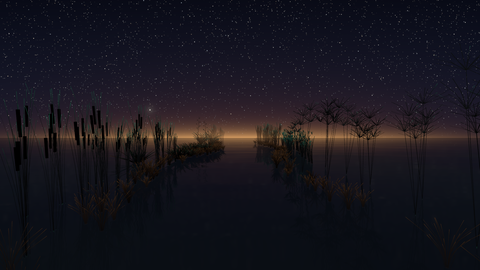
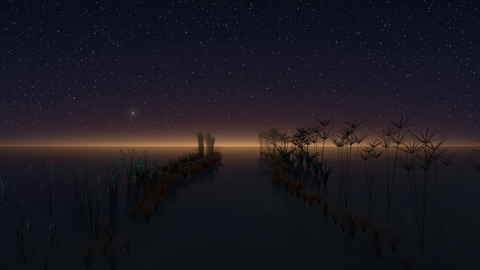
library: floor_reeds' copper stays steady: tufts and agaves take a factor of their own, one slow lift with the swell shared by all clumps (0.35 to 0.35 + `rim_lift`, 1), where the glint made whole clumps pulse by up to four times once per two beats; jade tips of reeds, cattails, sedge and papyrus ke
generated with Claude Code

diff --git a/library/README.md b/library/README.md
@@ -844,8 +844,9 @@ Low copper tufts stand in front of them all, between the plants and the lane.
 
 Each clump has its own size. Reeds, cattails, sedge and papyrus sway across the lane in a wave
 that runs along the line towards the camera, stiffer kinds less, and agaves stand still. The bass
-widens the sway. The stage's swell lights the tips: faint in a loud section, a jade glint in a
-breakdown, each clump catching the light at its own moment. Each model is one `geo.tex_instance`,
+widens the sway. The stage's swell lights the jade tips: faint in a loud section, a glint in a
+breakdown, each clump catching the light at its own moment. Copper lines, the tufts and the agaves,
+stay steady: only a slow lift with the swell, the same for all. Each model is one `geo.tex_instance`,
 7 in all, and all but the tufts share one set of place, aim and glint pictures. `plants.py` in the
 folder writes the models.
 
